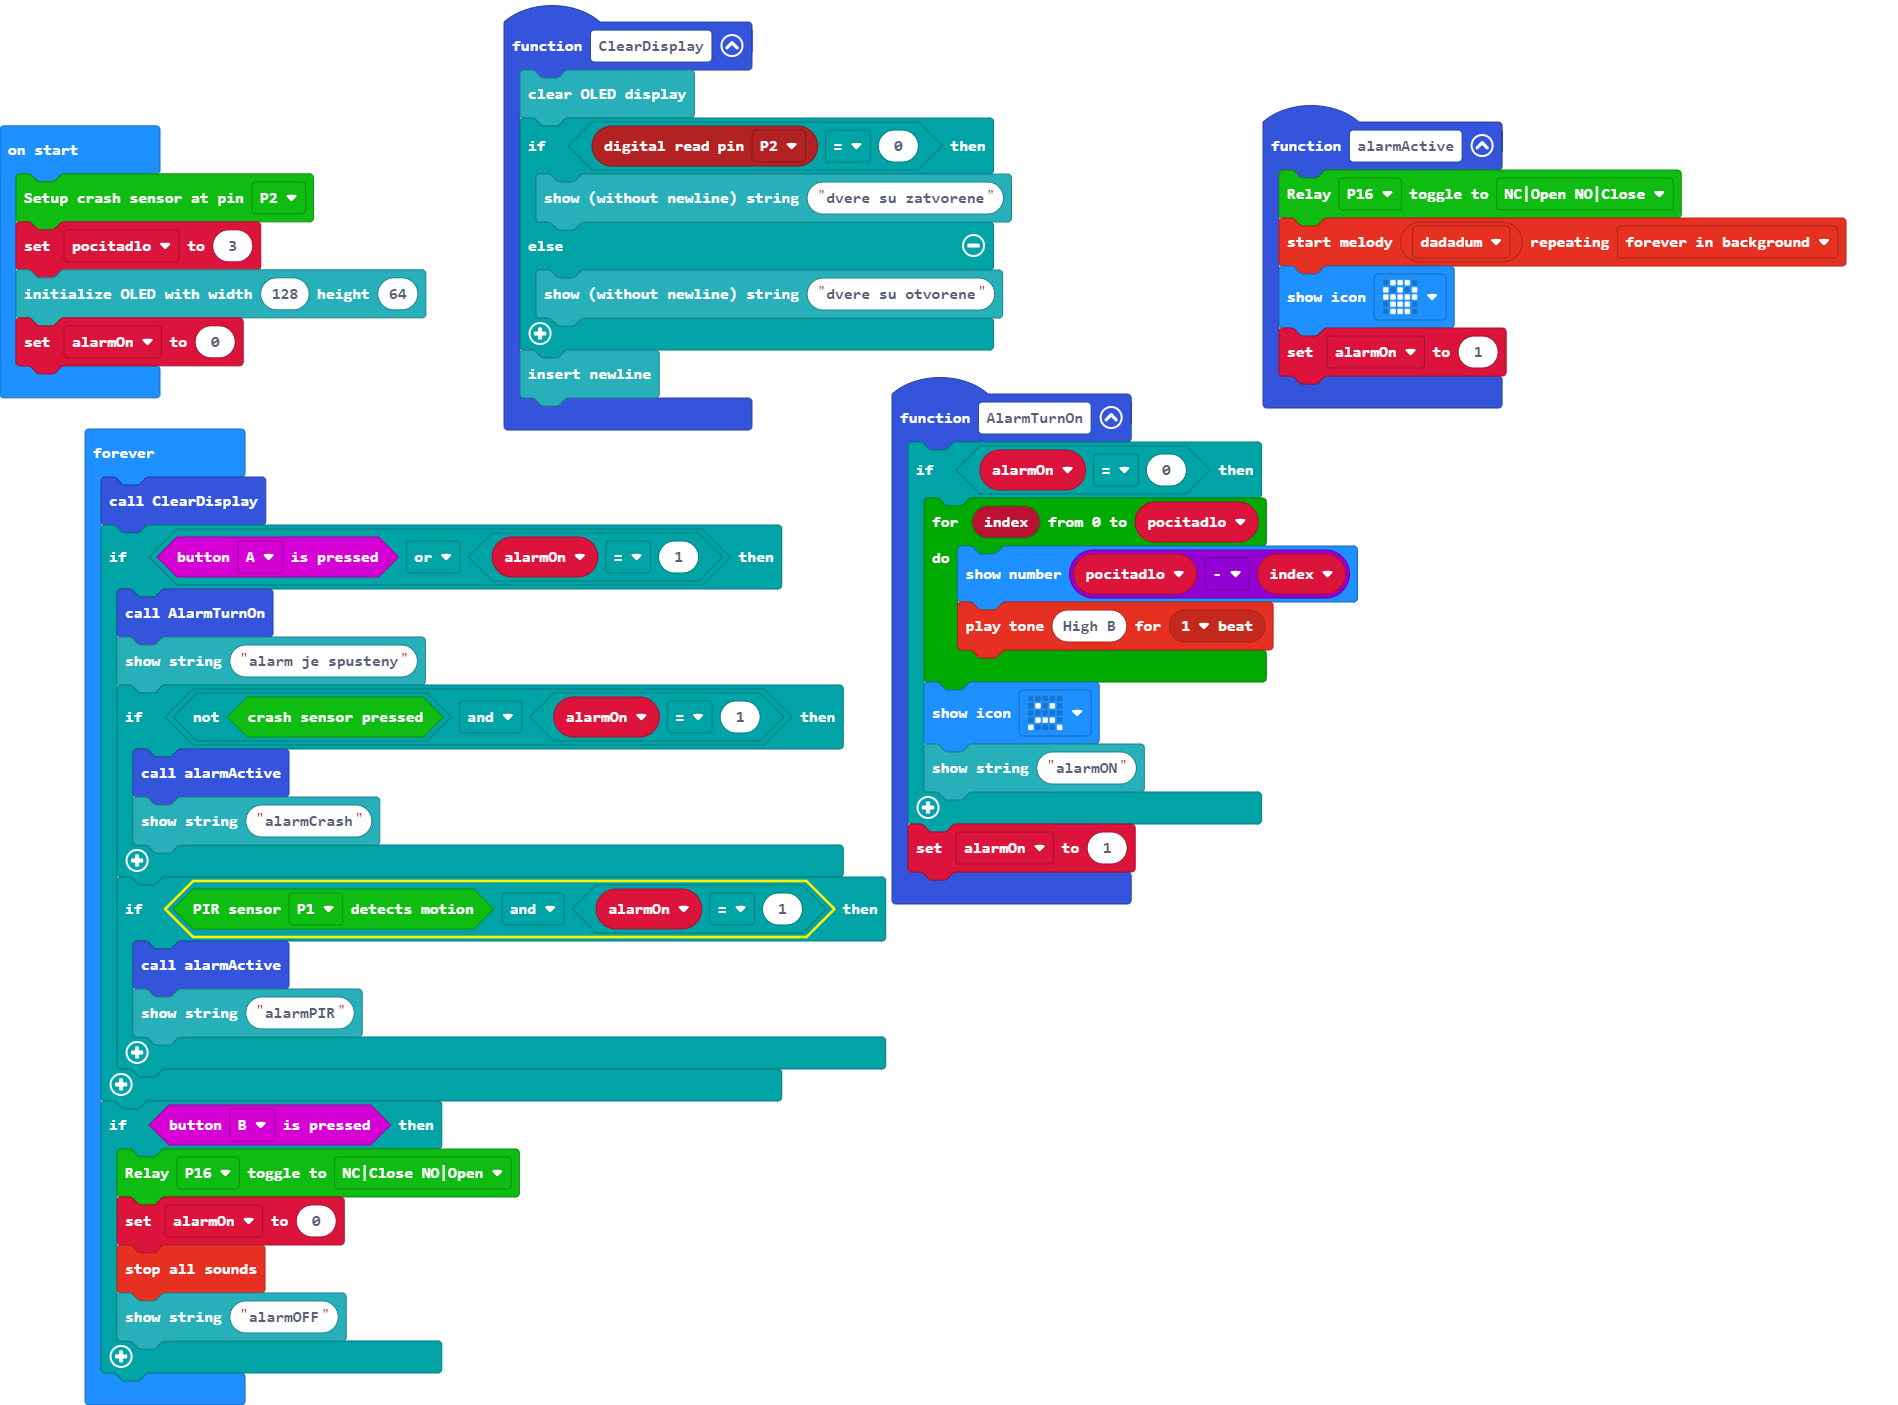
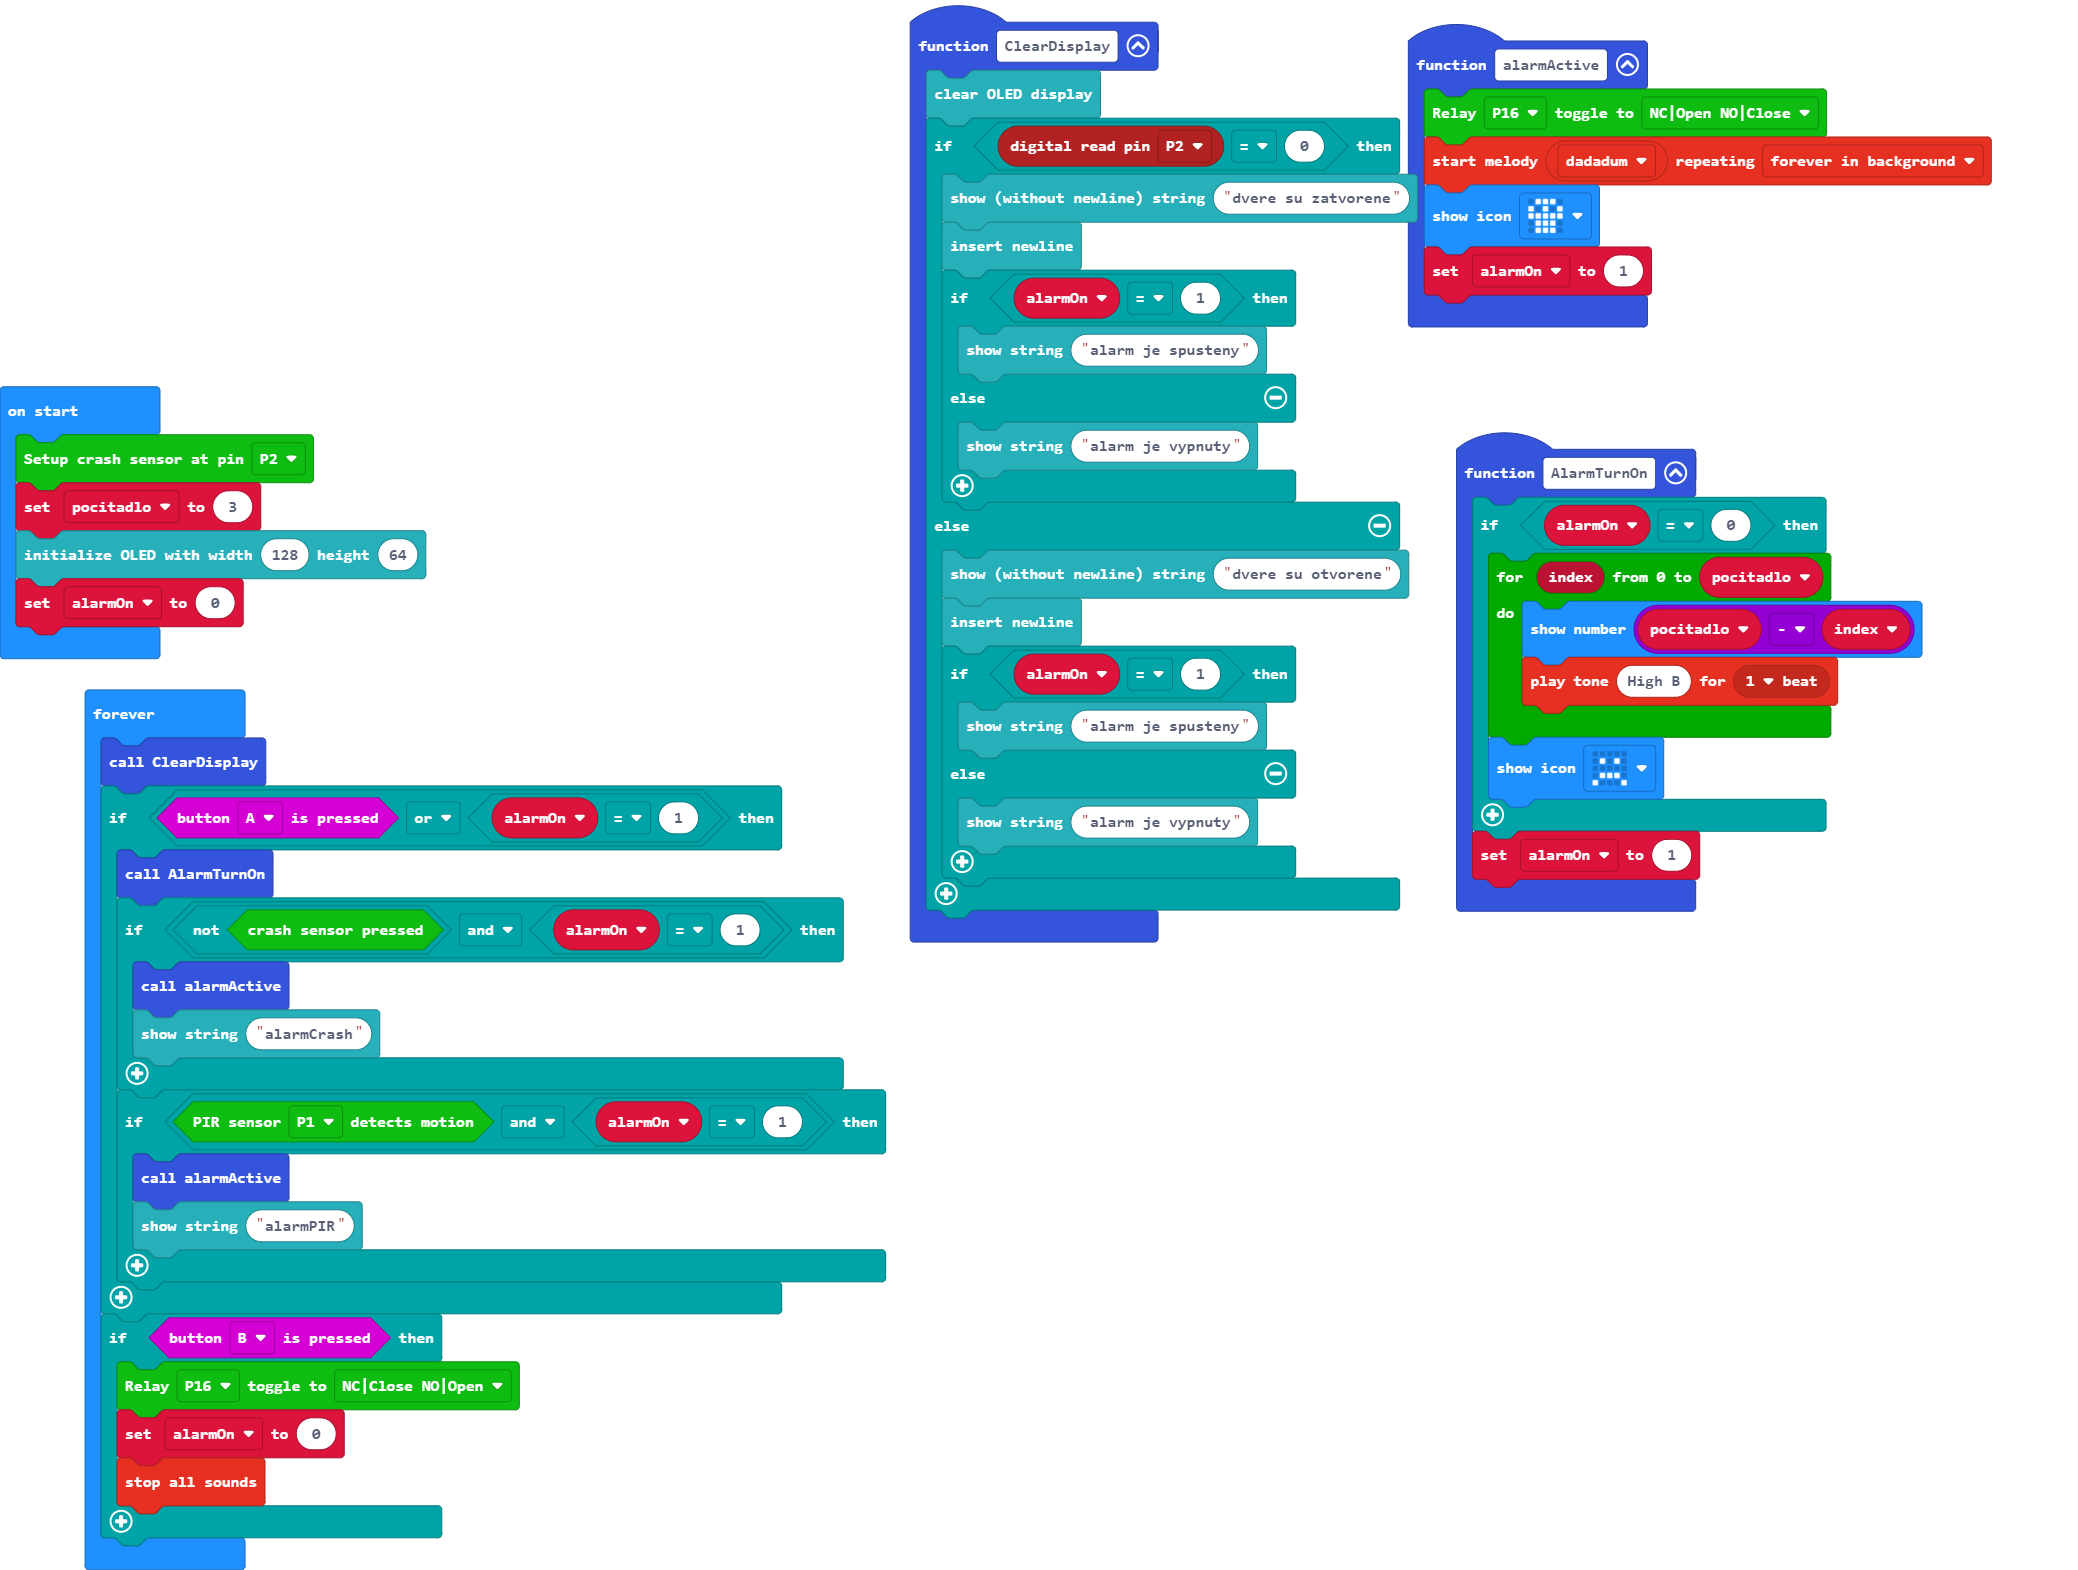
Update main.blocks, main.ts

diff --git a/main.ts b/main.ts
@@ -8,10 +8,21 @@ function ClearDisplay () {
     OLED.clear()
     if (pins.digitalReadPin(DigitalPin.P2) == 0) {
         OLED.writeString("dvere su zatvorene")
+        OLED.newLine()
+        if (alarmOn == 1) {
+            OLED.writeStringNewLine("alarm je spusteny")
+        } else {
+            OLED.writeStringNewLine("alarm je vypnuty")
+        }
     } else {
         OLED.writeString("dvere su otvorene")
+        OLED.newLine()
+        if (alarmOn == 1) {
+            OLED.writeStringNewLine("alarm je spusteny")
+        } else {
+            OLED.writeStringNewLine("alarm je vypnuty")
+        }
     }
-    OLED.newLine()
 }
 function AlarmTurnOn () {
     if (alarmOn == 0) {
@@ -20,7 +31,6 @@ function AlarmTurnOn () {
             music.playTone(988, music.beat(BeatFraction.Whole))
         }
         basic.showIcon(IconNames.Sad)
-        OLED.writeStringNewLine("alarmON")
     }
     alarmOn = 1
 }
@@ -34,7 +44,6 @@ basic.forever(function () {
     ClearDisplay()
     if (input.buttonIsPressed(Button.A) || alarmOn == 1) {
         AlarmTurnOn()
-        OLED.writeStringNewLine("alarm je spusteny")
         if (!(smarthome.crashSensor()) && alarmOn == 1) {
             alarmActive()
             OLED.writeStringNewLine("alarmCrash")
@@ -48,6 +57,5 @@ basic.forever(function () {
         smarthome.Relay(DigitalPin.P16, smarthome.RelayStateList.On)
         alarmOn = 0
         music.stopAllSounds()
-        OLED.writeStringNewLine("alarmOFF")
     }
 })
